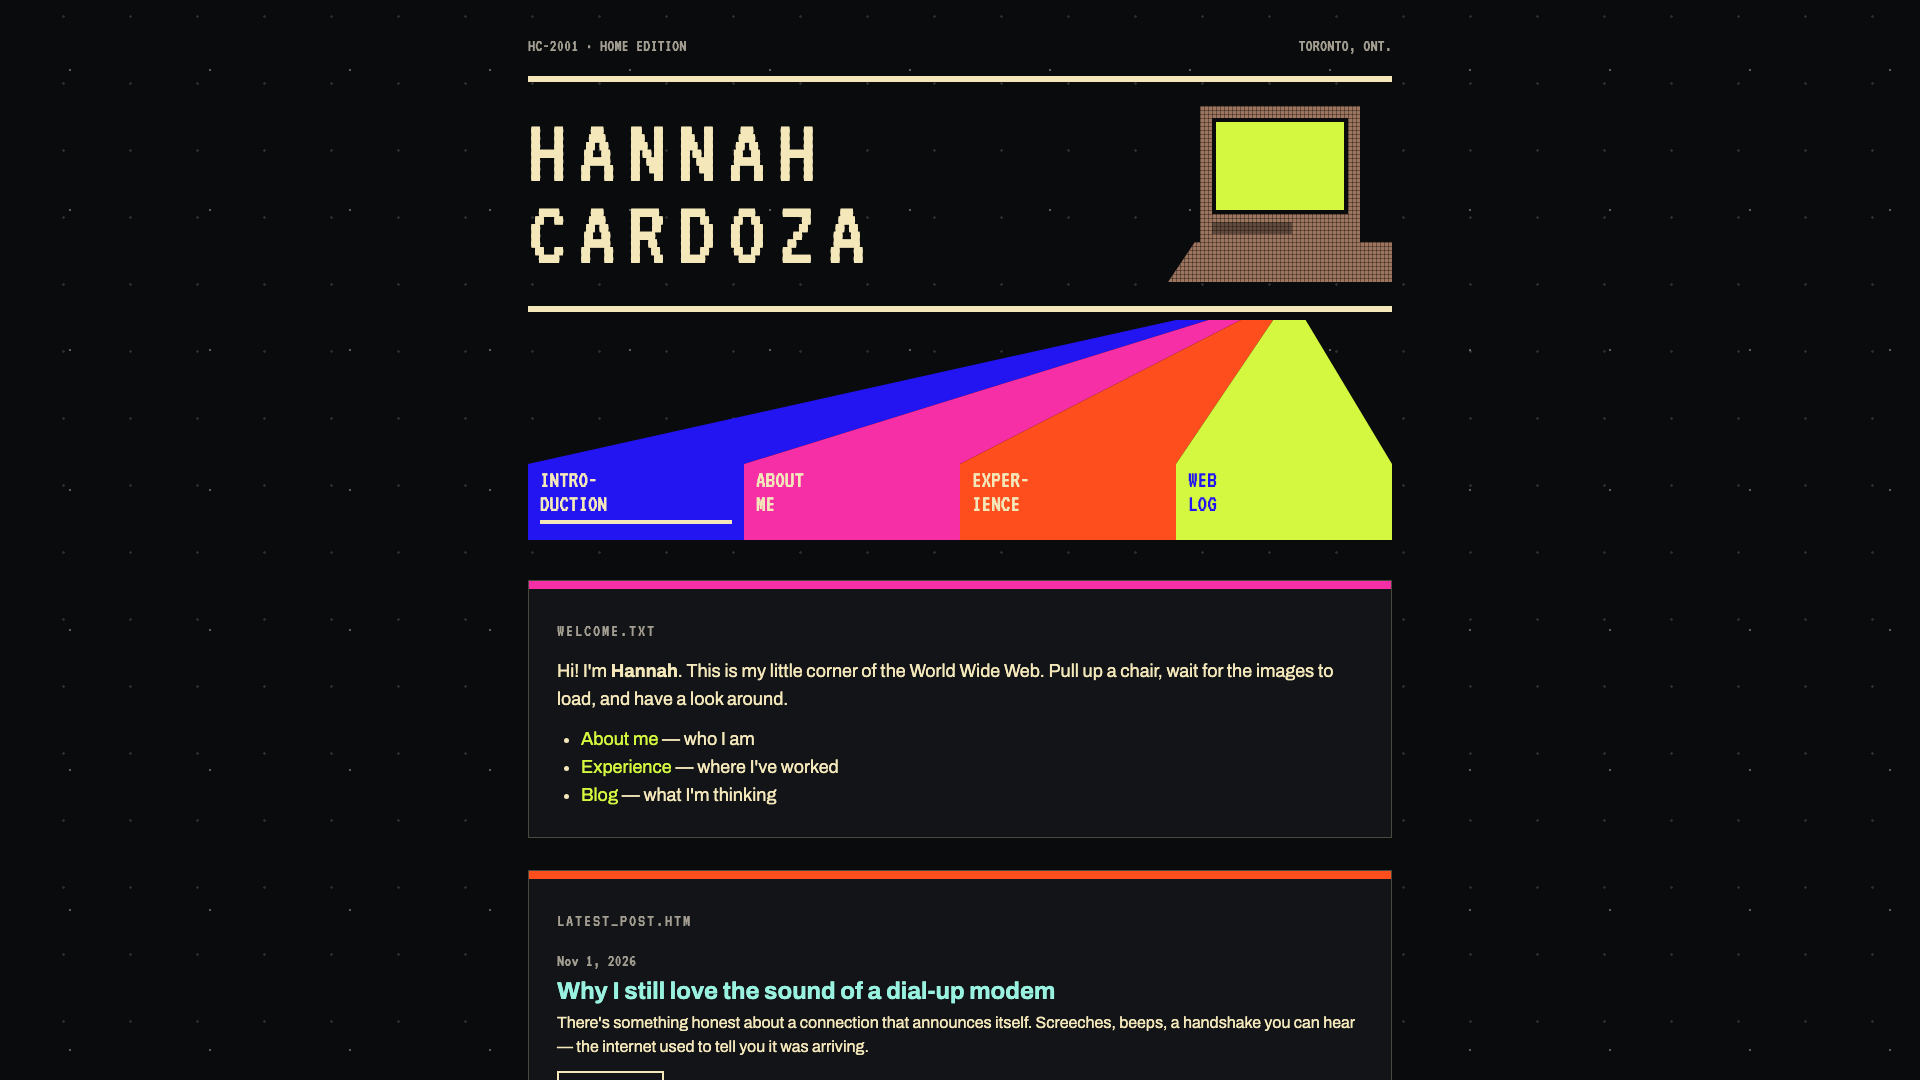
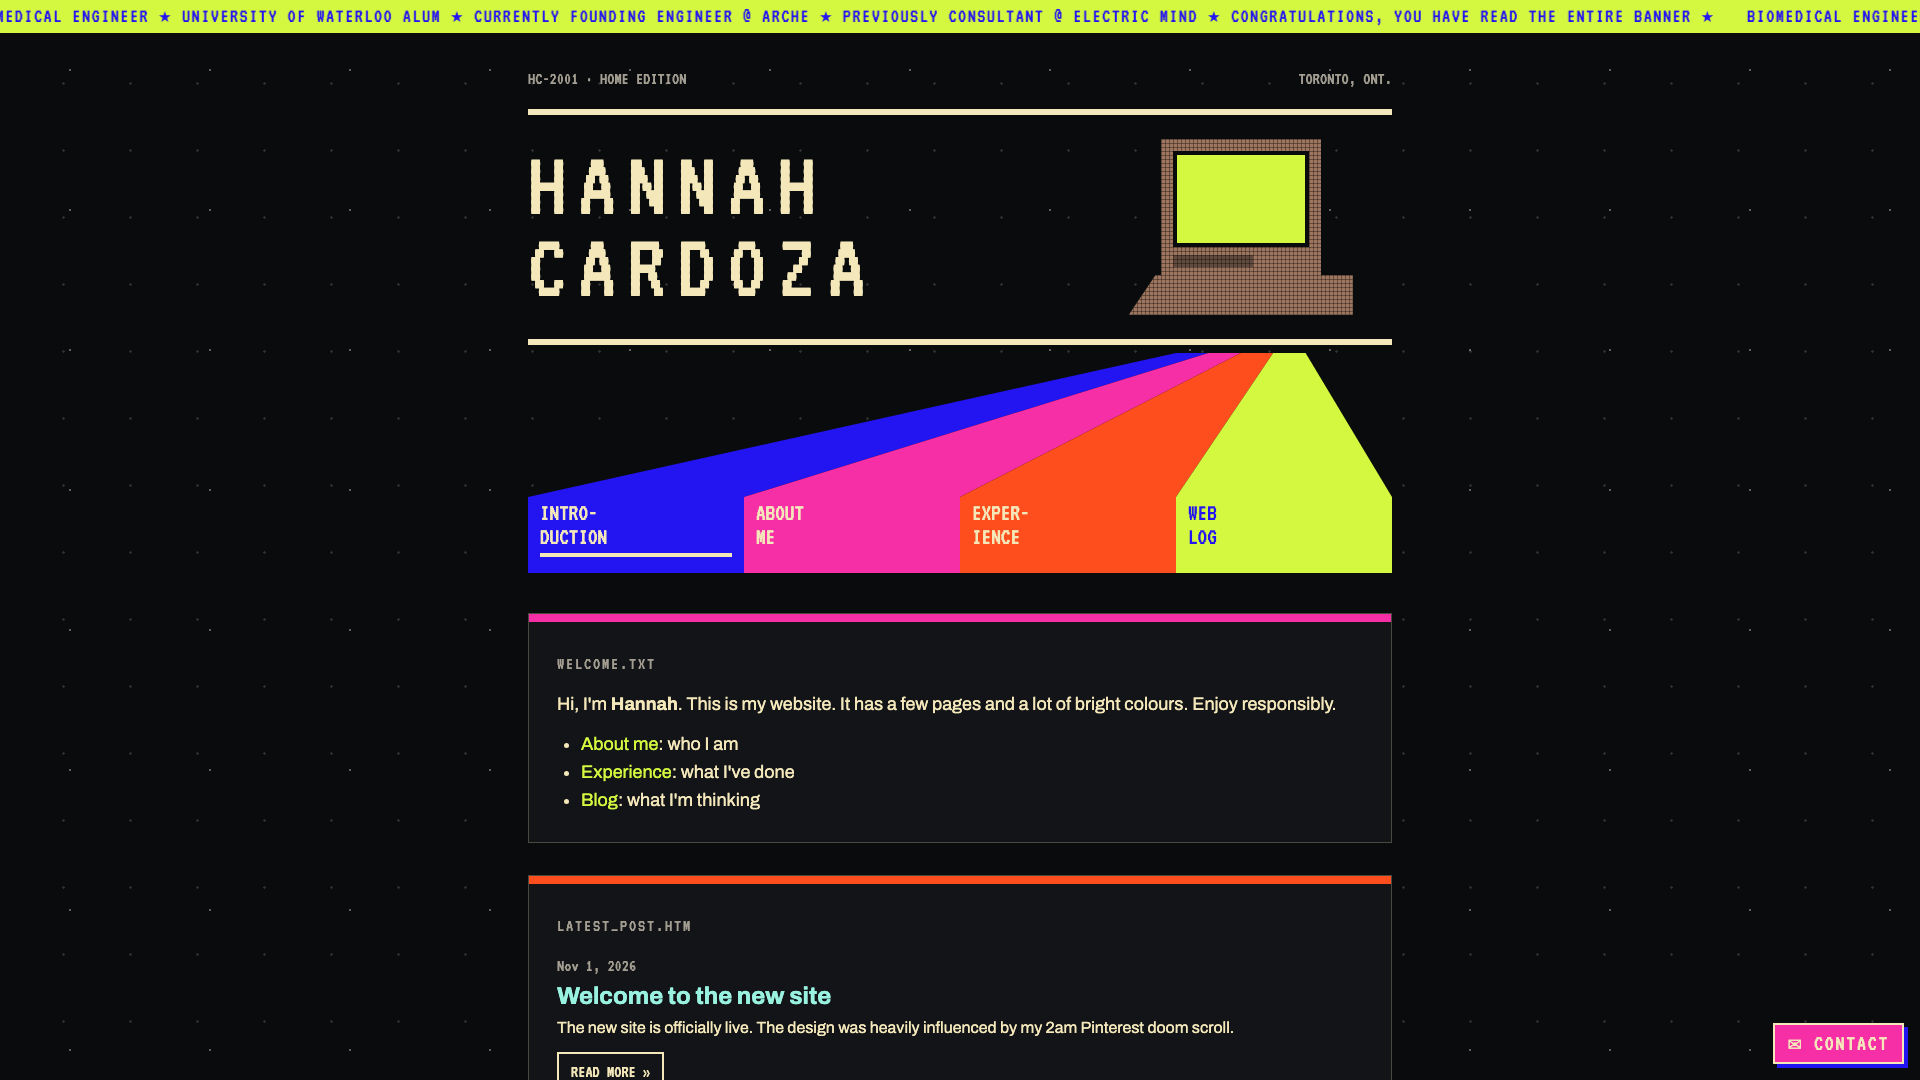
Refresh preview image; pronoun-free share descriptions

diff --git a/docs/experience/index.html b/docs/experience/index.html
@@ -12,14 +12,14 @@
     <meta name="twitter:card" content="summary_large_image"/>
     <meta name="description" content="Hannah Cardoza&#x27;s work experience."/>
     <meta property="og:title" content="Experience | Hannah Cardoza"/>
-    <meta property="og:description" content="Where Hannah has worked and what she&#x27;s built."/>
+    <meta property="og:description" content="Hannah Cardoza&#x27;s work experience, education, and skills."/>
     <link rel="preconnect" href="https://fonts.googleapis.com"/>
     <link rel="canonical" href="https://hannahcardoza.com/experience/"/>
     <link rel="icon" href="/favicon.svg" type="image/svg+xml"/>
     <link rel="icon" href="/favicon.ico" sizes="48x48"/>
     <link rel="apple-touch-icon" href="/apple-touch-icon.png"/>
     <meta name="twitter:title" content="Experience | Hannah Cardoza">
-    <meta name="twitter:description" content="Where Hannah has worked and what she&#x27;s built.">
+    <meta name="twitter:description" content="Hannah Cardoza&#x27;s work experience, education, and skills.">
     <meta property="og:image" content="https://hannahcardoza.com/assets/og.png">
     <meta name="twitter:image" content="https://hannahcardoza.com/assets/og.png">
     <script data-goatcounter="https://hannahcardoza.goatcounter.com/count" async src="https://gc.zgo.at/count.js"></script>

diff --git a/docs/about/index.html b/docs/about/index.html
@@ -12,14 +12,14 @@
     <meta name="twitter:card" content="summary_large_image"/>
     <meta name="description" content="A little about Hannah Cardoza."/>
     <meta property="og:title" content="About Me | Hannah Cardoza"/>
-    <meta property="og:description" content="Who Hannah is, what she likes, and how to reach her."/>
+    <meta property="og:description" content="Hannah Cardoza's background, interests, and contact info."/>
     <link rel="preconnect" href="https://fonts.googleapis.com"/>
     <link rel="canonical" href="https://hannahcardoza.com/about/"/>
     <link rel="icon" href="/favicon.svg" type="image/svg+xml"/>
     <link rel="icon" href="/favicon.ico" sizes="48x48"/>
     <link rel="apple-touch-icon" href="/apple-touch-icon.png"/>
     <meta name="twitter:title" content="About Me | Hannah Cardoza">
-    <meta name="twitter:description" content="Who Hannah is, what she likes, and how to reach her.">
+    <meta name="twitter:description" content="Hannah Cardoza's background, interests, and contact info.">
     <meta property="og:image" content="https://hannahcardoza.com/assets/og.png">
     <meta name="twitter:image" content="https://hannahcardoza.com/assets/og.png">
     <script data-goatcounter="https://hannahcardoza.goatcounter.com/count" async src="https://gc.zgo.at/count.js"></script>
